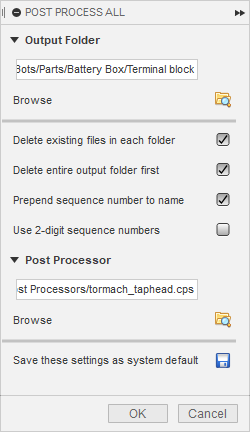
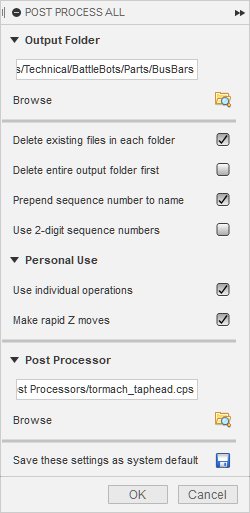
Fix timing issue and update ReadMe

Changed region(s): [[0.0, 0.0, 1.0, 0.9931]]

diff --git a/PostProcessAll.py b/PostProcessAll.py
@@ -649,7 +649,7 @@ def PerformPostProcess(docSettings):
 
         # done with setups, report results
         if cntSkipped != 0:
-            ui.messageBox("{} files were written. {} Setups were skipped due to invalid toolpath:{}".format(cntFiles, cntSkipped, lstSkipped), 
+            ui.messageBox("{} files were written. {} Setups were skipped due to error:{}".format(cntFiles, cntSkipped, lstSkipped), 
                 constCmdName, 
                 adsk.core.MessageBoxButtonTypes.OKButtonType,
                 adsk.core.MessageBoxIconTypes.WarningIconType)
@@ -739,19 +739,21 @@ def PostProcessSetup(fname, setup, setupFolder, docSettings):
                 opList.add(op)
                 i += 1
 
-            retries = 4
+            retries = 5
+            delay = constPostLoopDelay
             while True:
                 try:
                     if not cam.postProcess(opList, postInput):
                         return PostError.Fail
                 except:
                     return PostError.Except
- 
-                time.sleep(constPostLoopDelay) # wait for it to finish (??)
+
+                time.sleep(delay) # wait for it to finish (??)
                 try:
                     fileOp = open(path + constOpTmpFile + constGcodeFileExt)
                     break
                 except:
+                    delay *= 2
                     retries -= 1
                     if retries == 0:
                         raise

diff --git a/README.md b/README.md
@@ -1,10 +1,14 @@
 # Fusion 360 CAM Batch Post Process Add-In
+#### NEW! Fixes tool change restriction in Fusion 360 for Personal Use
+See section below.
+
+### Introduction
 This add-in for Fusion 360 will post-process all CAM setups at once.
 Each setup is put in a file with the name of the setup. You can
 optionally use a special setup naming convention to put files in
 subfolders. You can also put sequence numbers on the name to maintain
 the order of operations.
-### Introduction
+
 The add-in creates a new command in the Manufacture workspace next to
 the native Post Process command called Post Process All:
 
@@ -42,6 +46,23 @@ each folder.
 In the above example, when adding sequence numbers the files in
 the "Block" folder would have the names "1 first edge" and "2 second
 edge".
+### Fusion 360 for Personal Use
+The free version of Fusion 360 now has some limitations on G-code
+output: It will not support tool changes, and it slows down all
+moves to feed rate. This add-in can work around the tool change
+limitation and makes a first step in restoring rapid moves.
+
+In the Personal Use section of the add-in dialog, you will find
+the option to break each setup into individual operations. This 
+is required if you have the free version of Fusion 360 and there
+is a tool change in any setup. The add-in will combine the G-code
+for each operation of a setup back into a single file for that
+setup, hiding this limitation.
+
+In addition, you can also select the option to change the first
+Z moves in each operation to rapid (G0) moves. Currently this
+affects only the first one or two moves, and should be reviewed
+before use. Hopefully this can be extended to more eligible moves.
 ### Installation
 To install, start by putting the PostProcessAll.* files along with
 the "resources" subfolder into a folder on your machine. This can
@@ -65,3 +86,12 @@ To see the new command, go to the Manufacture workspace and select the
 Milling or Turning tab. The command appears on the toolbar next to
 the native Post Process command. It also appears in the Actions
 drop-down menu.
+### Issues
+If the command fails, run it again. There seem to be occasional timing 
+issues that usually resolve themselves.
+
+The concatenation and modification of G-code has been only been lightly
+tested and with just one post processor (Tormach). Given that there are
+very specific assumptions about what the G-code input will look like,
+it would not be surprising to find problems come up. Feel free to report
+them on the Issues page, and include the G-code files.
